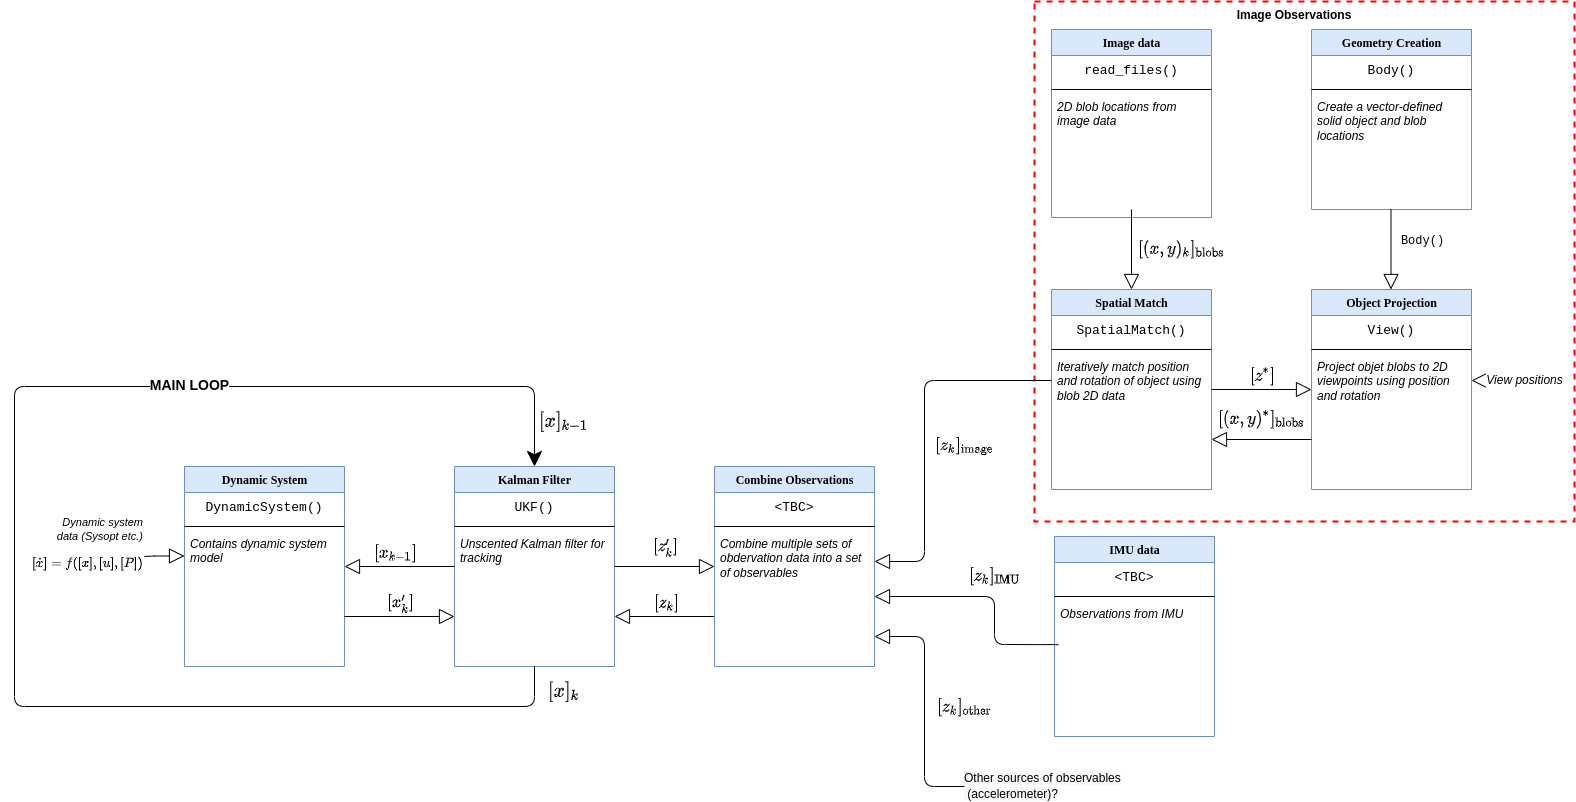
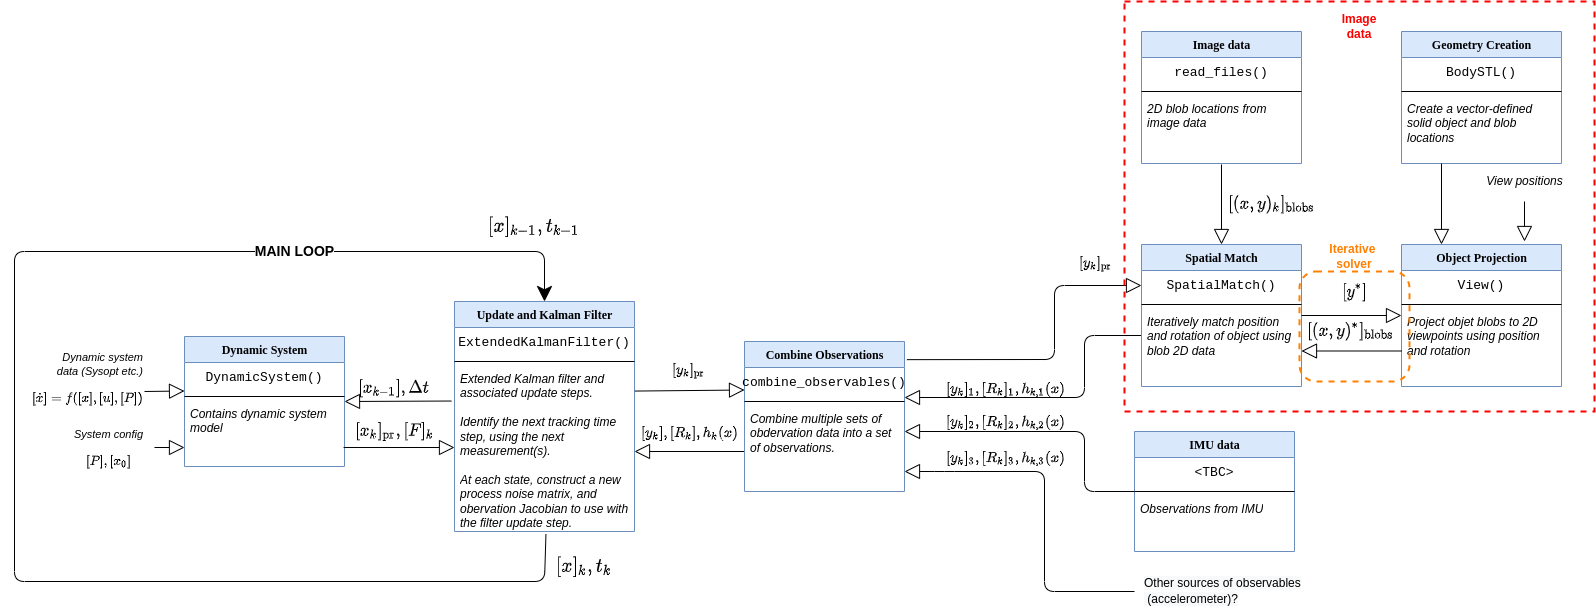
Flowchart update

diff --git a/README.md b/README.md
@@ -1,6 +1,9 @@
 # USQ motion analysis codes
 
-A selection of Python tools used to analyse object motion, intended predominantly for experimental motion data.
+A selection of Python tools used to analyse object motion, intended predominantly for experimental motion data. Multiple types of observations (image blobs detection, IMU etc.) can be combined to estimate the state of the system at the current time point. 
+
+Future development will also incorporate data smoothing, so that forces and
+moments can be extracted from the motion data. 
 
 ![alt_text](/docs/img/states.png?raw=true "mesh_view")
 ![alt_text](/docs/img/mesh.png?raw=true "mesh_view")
@@ -36,6 +39,8 @@ If you encounter unmet dependencies, please contact Andy.
 
 Documentation to be added to [`docs`](/docs/).
 
+A description of each package is provided in the `README` of each package. 
+
 ## Tests
 
 The tests directory contains scripts to test the functionality of individual modules, and should be used when modifying core modules. 
@@ -43,11 +48,16 @@ The tests directory contains scripts to test the functionality of individual mod
 ## Examples
 
 Examples of how the different packages integrate to track dynamic systems.
-Includes
+Include
 
 - 3DoF tracking from XYZ data
 - 6DoF tracking from XYZ and quaternion data
-- 6DoF tracking from 2-D projected blob data
+- 6DoF tracking from 2-D projected blob data from a cube
 
+## Example structure of tracker design
+
+The below flowchart shows an example structure 
+
+![alt text](/docs/img/motiontrack_diagram.png?raw=true "motiontrack_structure")
 
 
